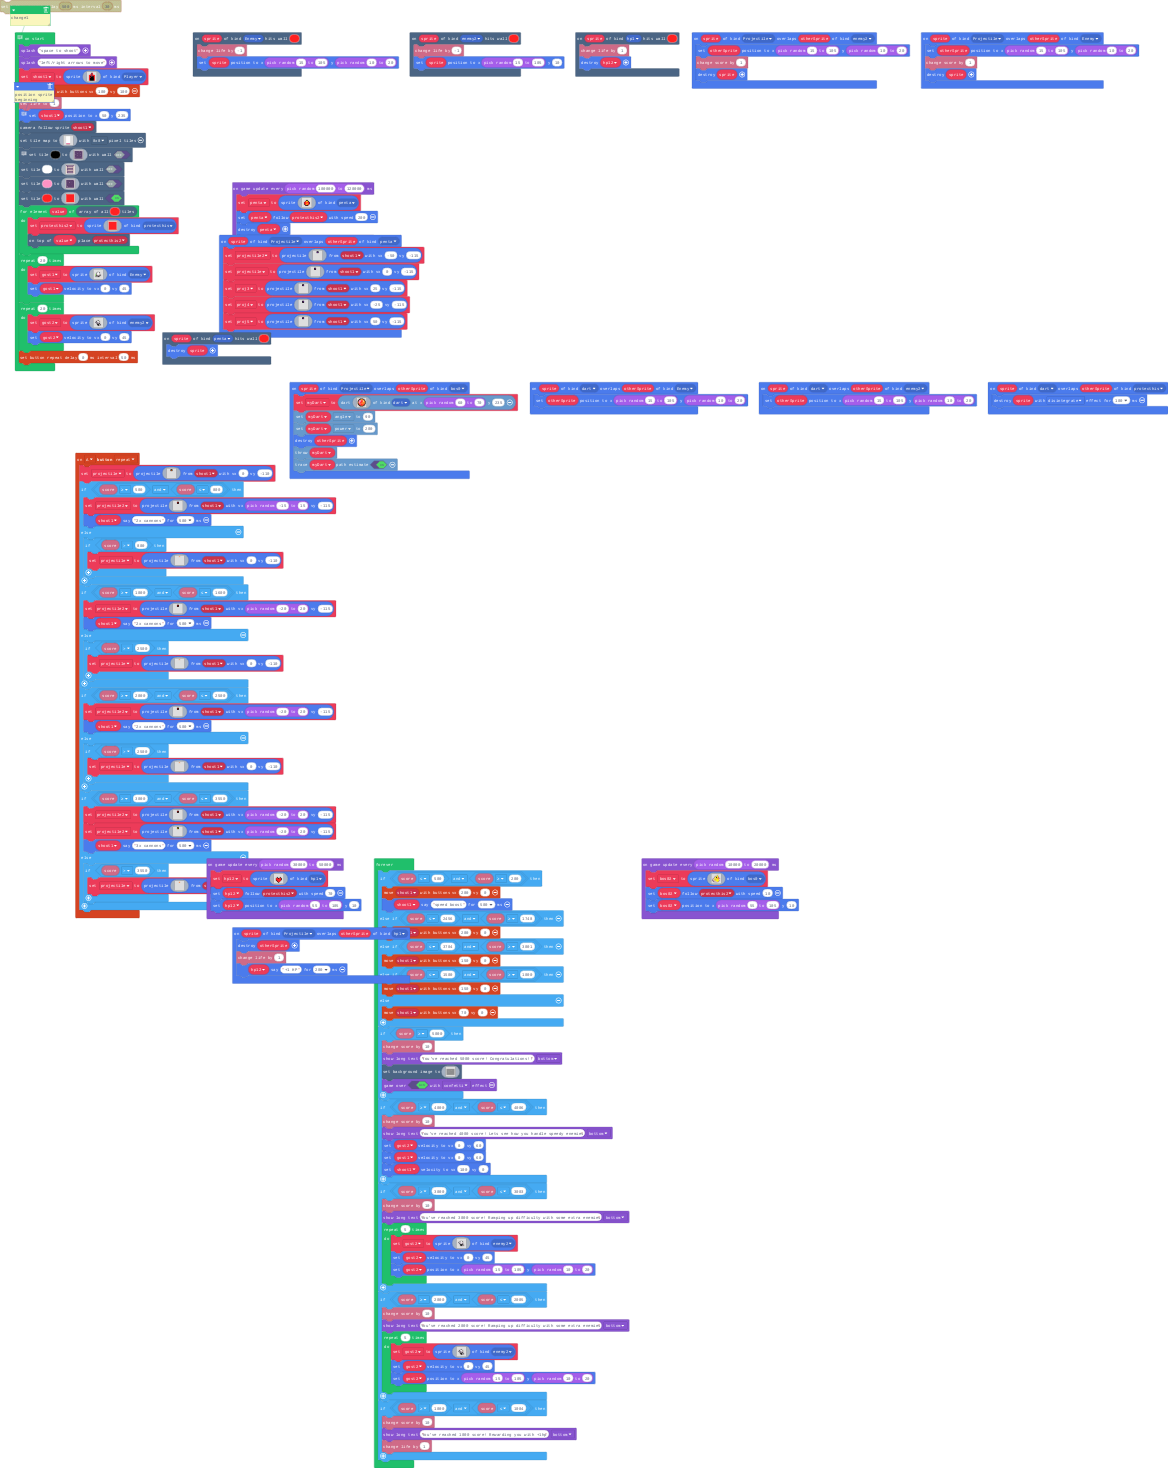
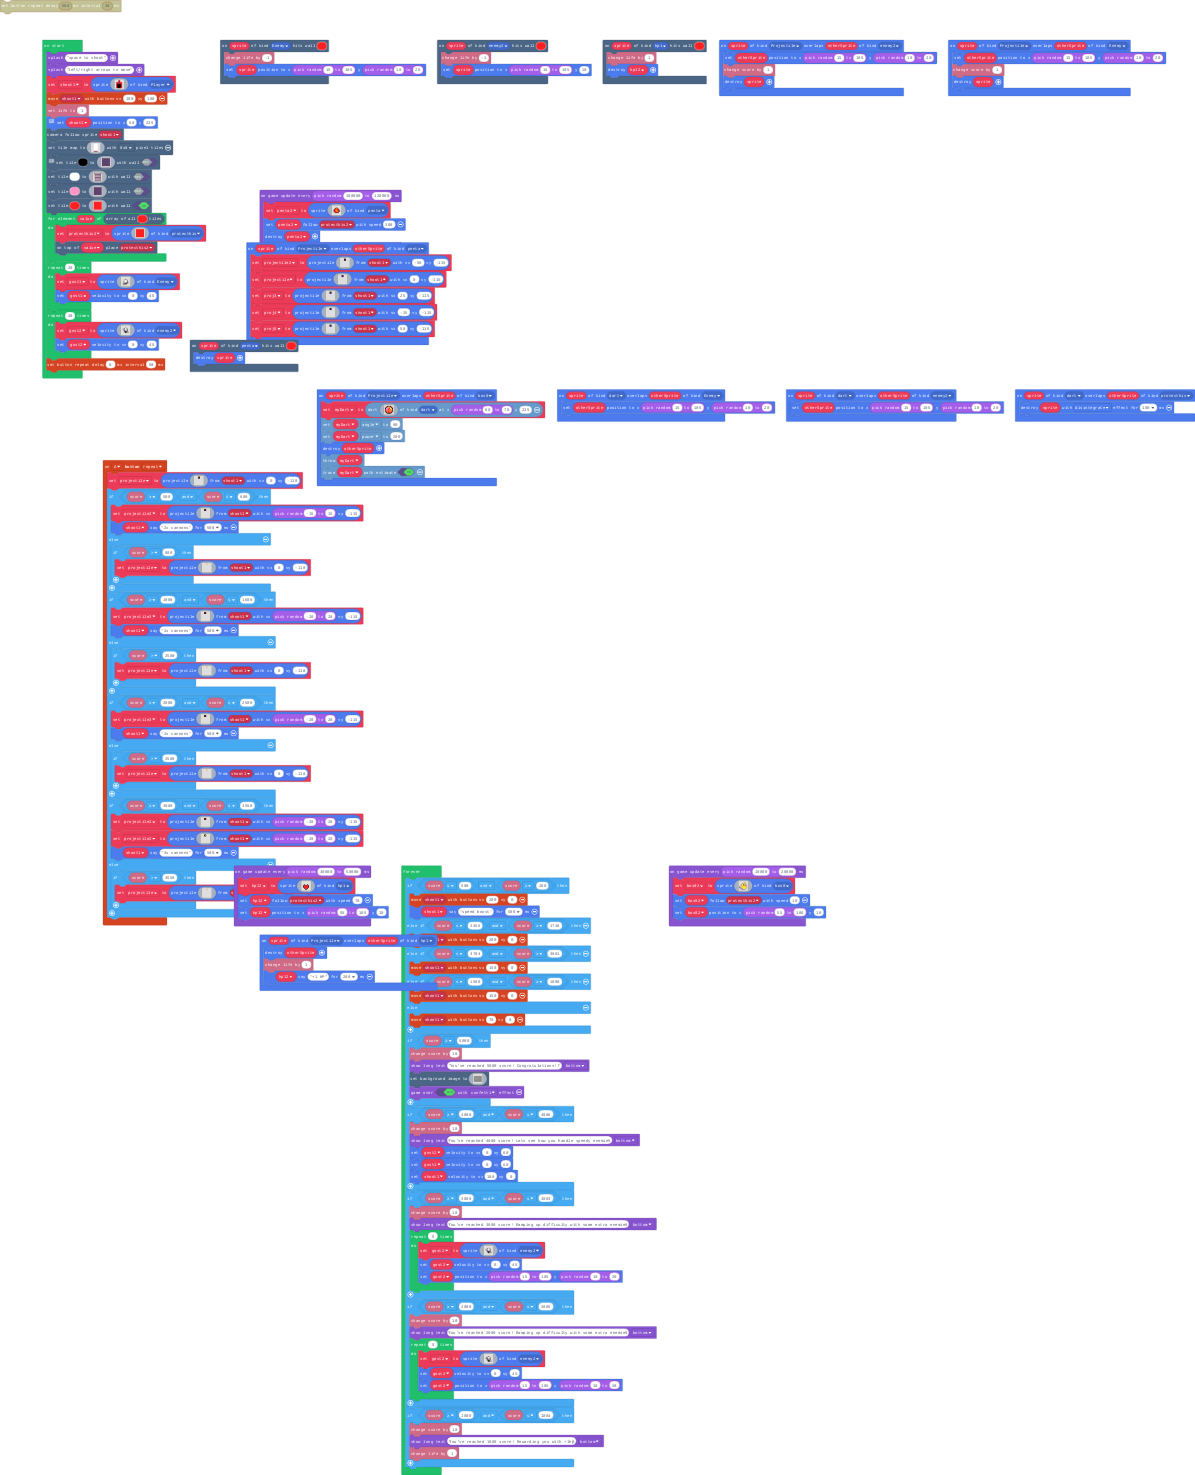
nofunctions

Changed region(s): [[0.0, 0.0, 1.0, 1.0], [0.524, 0.5824, 0.7089, 0.6437]]

diff --git a/main.ts b/main.ts
@@ -370,7 +370,7 @@ sprites.onOverlap(SpriteKind.Projectile, SpriteKind.hp1, function (sprite, other
     hp12.say("+1 HP", 200)
 })
 let bos02: Sprite = null
-let penta: Sprite = null
+let penta2: Sprite = null
 let myDart: Dart = null
 let hp12: Sprite = null
 let proj5: Sprite = null
@@ -617,7 +617,7 @@ game.onUpdateInterval(Math.randomRange(30000, 50000), function () {
     hp12.setPosition(Math.randomRange(55, 105), 10)
 })
 game.onUpdateInterval(Math.randomRange(100000, 120000), function () {
-    penta = sprites.create(img`
+    penta2 = sprites.create(img`
 . . . . . . . . . . . . . . . . 
 . . . . . . . . . . . . . . . . 
 . . . . . . . . . . . . . . . . 
@@ -635,8 +635,8 @@ game.onUpdateInterval(Math.randomRange(100000, 120000), function () {
 . . . . . . . . . . . . . . . . 
 . . . . . . . . . . . . . . . . 
 `, SpriteKind.penta)
-    penta.follow(protecthis2, 200)
-    penta.destroy()
+    penta2.follow(protecthis2, 200)
+    penta2.destroy()
 })
 forever(function () {
     if (info.score() <= 500 && info.score() >= 200) {
